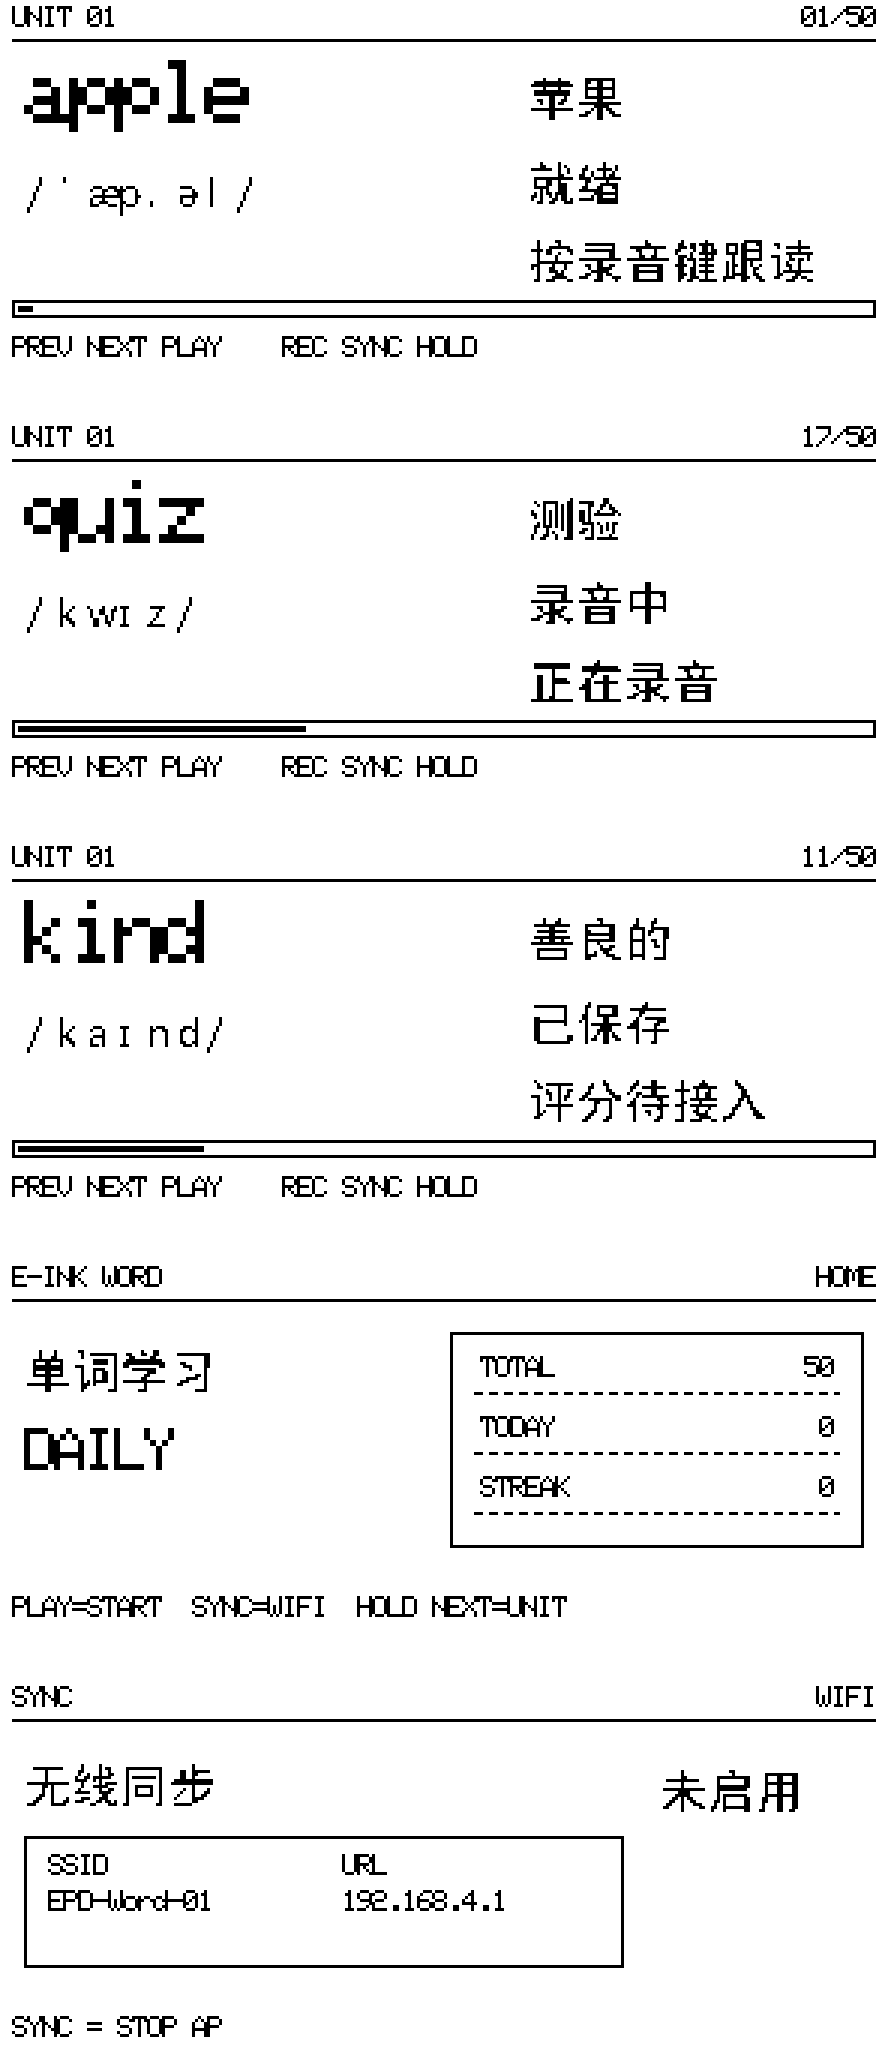
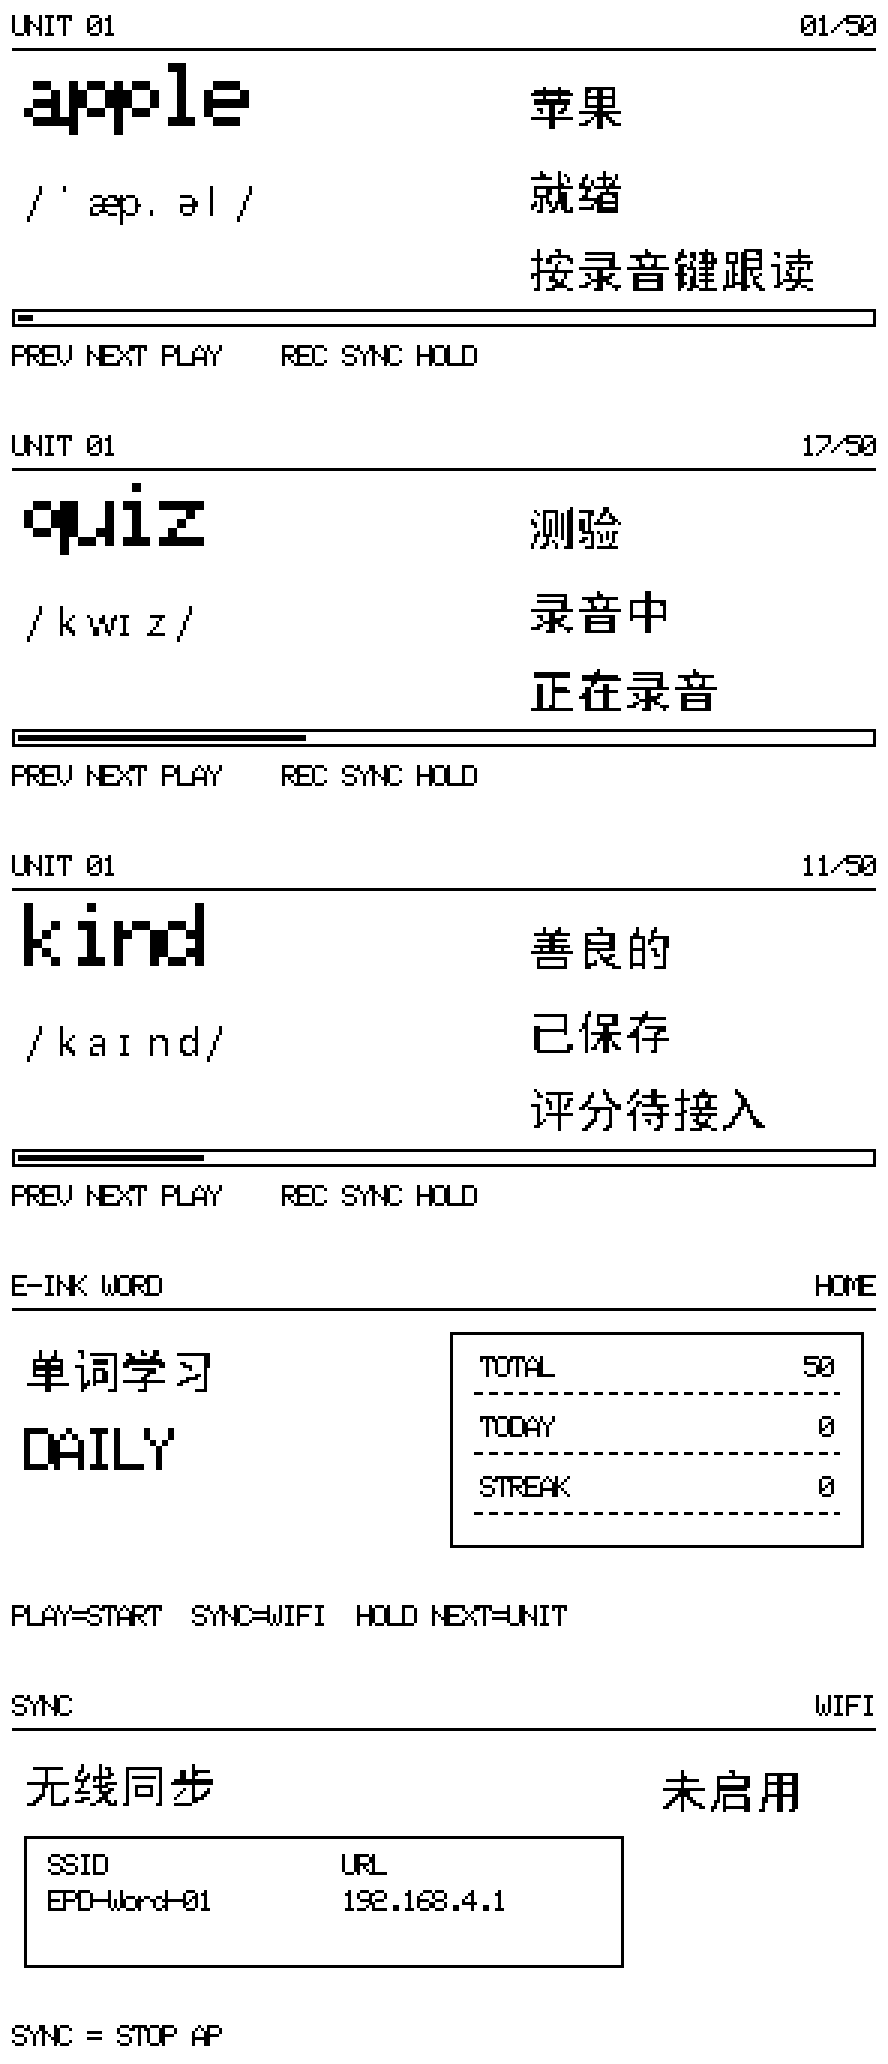
fix(ui): use full 128px height, shift layout down 3px
上一版内容占到 y=120，底部留了 8px 空带。整体下移 3px 后内容占
5..123，上下留白各 5px，底部空带消失。

diff --git a/tools/ui29_preview.py b/tools/ui29_preview.py
@@ -29,25 +29,25 @@ W, H = 296, 128          # 横向：宽 296，高 128
 MARGIN = 4
 INNER = W - 2 * MARGIN          # 288
 
-Y_SBAR = 2                      # 状态栏文字顶
-Y_DIV1 = 13                     # 状态栏下分隔线
+Y_SBAR = 5                      # 状态栏文字顶
+Y_DIV1 = 16                     # 状态栏下分隔线
 
 COL_L = 8                       # 左栏（单词 + 音标）起点
 COL_R = 176                     # 右栏（释义 + 状态）起点
 COL_R_W = W - MARGIN - COL_R    # 116 px -> 7 个汉字
 
-Y_WORD = 20                     # 单词顶（scale 3 -> 24 px 高）
+Y_WORD = 21                     # 单词顶（scale 3 -> 24 px 高）
 WORD_SCALE = 3
-Y_IPA = 52                      # 音标顶（20 px 框，基线对齐）
+Y_IPA = 55                      # 音标顶（20 px 框，基线对齐）
 
-Y_MEAN = 24                     # 释义顶（16 px，行距 20）
+Y_MEAN = 27                     # 释义顶（16 px，行距 20）
 MEAN_LINE_H = 20
-Y_BIG = 52                      # 状态大字
-Y_SMALL = 78                    # 状态副行
+Y_BIG = 55                      # 状态大字
+Y_SMALL = 81                    # 状态副行
 
-Y_BAR = 100                     # 进度条
+Y_BAR = 103                     # 进度条
 BAR_H = 6
-Y_HINT = 112
+Y_HINT = 115
 
 
 class Panel:

diff --git a/main/ui29/ui29_card.c b/main/ui29/ui29_card.c
@@ -47,20 +47,20 @@ static const char *TAG = "ui29";
 /* ---------------------------------------------------------------- 布局常量 */
 #define MARGIN      4
 #define INNER       (LW - 2 * MARGIN)     /* 288 */
-#define Y_SBAR      2
-#define Y_DIV1      13
+#define Y_SBAR      5
+#define Y_DIV1      16
 #define COL_L       8
 #define COL_R       176
-#define Y_WORD      18
+#define Y_WORD      21
 #define WORD_SCALE  3
-#define Y_IPA       52
-#define Y_MEAN      24
+#define Y_IPA       55
+#define Y_MEAN      27
 #define MEAN_LINE_H 20
-#define Y_BIG       52
-#define Y_SMALL     78
-#define Y_BAR       100
+#define Y_BIG       55
+#define Y_SMALL     81
+#define Y_BAR       103
 #define BAR_H       6
-#define Y_HINT      112
+#define Y_HINT      115
 
 #define TMO_MS          8000
 #define FULL_EVERY_N    20

diff --git a/docs/ui29界面.md b/docs/ui29界面.md
@@ -22,11 +22,13 @@ SSD1680 的 gate（行）固定在 **296** 条，控制器地址空间就是 128
 
 | 区域 | 位置 | 内容 |
 | --- | --- | --- |
-| 状态栏 | y=2 | 左 `UNIT 01`，右 `01/50`，下分隔线 y=13 |
+| 状态栏 | y=5 | 左 `UNIT 01`，右 `01/50`，下分隔线 y=16 |
 | 左栏 | x=8 | 单词（5×7 ASCII ×3 放大，15 px/字）、音标（12×20 点阵） |
 | 右栏 | x=176 | 释义（16×16 汉字，每行 7 字）、状态大字、状态副行 |
-| 进度条 | y=100 | 288 px 宽，按词序号填充 |
-| 键位提示 | y=112 | `PREV NEXT PLAY  REC SYNC HOLD` |
+| 进度条 | y=103 | 288 px 宽，按词序号填充 |
+| 键位提示 | y=115 | `PREV NEXT PLAY  REC SYNC HOLD` |
+
+> 竖向占用 5–123 px，上下各留 5 px，避免底部出现空带。
 
 预览图：[`ui29_preview.png`](ui29_preview.png)（五页：就绪 / 录音中 / 已保存 / 首页 / 同步页）。
 
